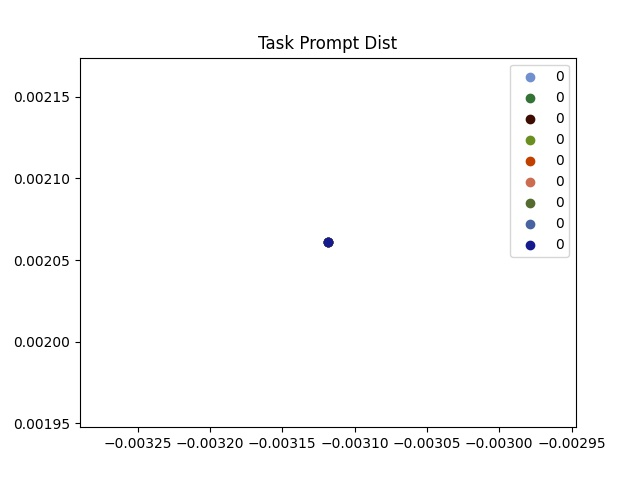
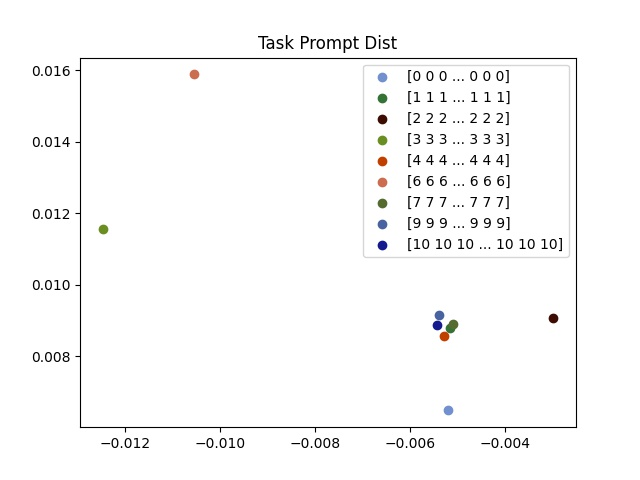
update

diff --git a/draw_cuda_taskprompt.py b/draw_cuda_taskprompt.py
@@ -105,8 +105,8 @@ sst2_ten = list()
 path="/data3/private/suyusheng/prompt/prompt/task_prompt_emb/SST2PromptRoberta/task_prompt"
 sst2_ten = torch.load(path).view(76800)
 print(sst2_ten.shape)
-sst2_ten = torch.stack([sst2_ten for i in range(200)])
-print(sst2_ten.shape)
+#sst2_ten = torch.stack([sst2_ten for i in range(200)])
+#print(sst2_ten.shape)
 
 
 #laptop
@@ -115,8 +115,8 @@ laptop_ten = list()
 path="/data3/private/suyusheng/prompt/prompt/task_prompt_emb/laptopPromptRoberta/task_prompt"
 laptop_ten = torch.load(path).view(76800)
 print(laptop_ten.shape)
-laptop_ten = torch.stack([laptop_ten for i in range(200)])
-print(laptop_ten.shape)
+#laptop_ten = torch.stack([laptop_ten for i in range(200)])
+#print(laptop_ten.shape)
 
 
 #restaurant
@@ -125,8 +125,8 @@ restaurant_ten = list()
 path="/data3/private/suyusheng/prompt/prompt/task_prompt_emb/restaurantPromptRoberta/task_prompt"
 restaurant_ten = torch.load(path).view(76800)
 print(restaurant_ten.shape)
-restaurant_ten = torch.stack([restaurant_ten for i in range(200)])
-print(restaurant_ten.shape)
+#restaurant_ten = torch.stack([restaurant_ten for i in range(200)])
+#print(restaurant_ten.shape)
 
 #############
 #############
@@ -138,8 +138,8 @@ rte_ten = list()
 path="/data3/private/suyusheng/prompt/prompt/task_prompt_emb/RTEPromptRoberta/task_prompt"
 rte_ten = torch.load(path).view(76800)
 print(rte_ten.shape)
-rte_ten = torch.stack([rte_ten for i in range(200)])
-print(rte_ten.shape)
+#rte_ten = torch.stack([rte_ten for i in range(200)])
+#print(rte_ten.shape)
 
 
 #MNLI
@@ -148,8 +148,8 @@ MNLI_ten = list()
 path="/data3/private/suyusheng/prompt/prompt/task_prompt_emb/MNLIPromptRoberta/task_prompt"
 MNLI_ten = torch.load(path).view(76800)
 print(MNLI_ten.shape)
-MNLI_ten = torch.stack([MNLI_ten for i in range(200)])
-print(MNLI_ten.shape)
+#MNLI_ten = torch.stack([MNLI_ten for i in range(200)])
+#print(MNLI_ten.shape)
 
 
 
@@ -159,8 +159,8 @@ WNLI_ten = list()
 path="/data3/private/suyusheng/prompt/prompt/task_prompt_emb/WNLIPromptRoberta/task_prompt"
 WNLI_ten = torch.load(path).view(76800)
 print(WNLI_ten.shape)
-WNLI_ten = torch.stack([WNLI_ten for i in range(200)])
-print(WNLI_ten.shape)
+#WNLI_ten = torch.stack([WNLI_ten for i in range(200)])
+#print(WNLI_ten.shape)
 
 
 ################
@@ -173,8 +173,8 @@ MRPC_ten = list()
 path="/data3/private/suyusheng/prompt/prompt/task_prompt_emb/MRPCPromptRoberta/task_prompt"
 MRPC_ten = torch.load(path).view(76800)
 print(MRPC_ten.shape)
-MRPC_ten = torch.stack([MRPC_ten for i in range(200)])
-print(MRPC_ten.shape)
+#MRPC_ten = torch.stack([MRPC_ten for i in range(200)])
+#print(MRPC_ten.shape)
 
 
 #QQP
@@ -183,8 +183,8 @@ QQP_ten = list()
 path="/data3/private/suyusheng/prompt/prompt/task_prompt_emb/QQPPromptRoberta/task_prompt"
 QQP_ten = torch.load(path).view(76800)
 print(QQP_ten.shape)
-QQP_ten = torch.stack([QQP_ten for i in range(200)])
-print(QQP_ten.shape)
+#QQP_ten = torch.stack([QQP_ten for i in range(200)])
+#print(QQP_ten.shape)
 
 
 ################
@@ -196,8 +196,8 @@ re_ten = list()
 path="/data3/private/suyusheng/prompt/prompt/task_prompt_emb/REPrompt/task_prompt"
 re_ten = torch.load(path).view(76800)
 print(re_ten.shape)
-re_ten = torch.stack([re_ten for i in range(200)])
-print(re_ten.shape)
+#re_ten = torch.stack([re_ten for i in range(200)])
+#print(re_ten.shape)
 
 
 ################
@@ -211,8 +211,8 @@ QNLI_ten = list()
 path="/data3/private/suyusheng/prompt/prompt/task_prompt_emb/QNLIPromptRoberta/task_prompt"
 QNLI_ten = torch.load(path).view(76800)
 print(QNLI_ten.shape)
-QNLI_ten = torch.stack([QNLI_ten for i in range(200)])
-print(QNLI_ten.shape)
+#QNLI_ten = torch.stack([QNLI_ten for i in range(200)])
+#print(QNLI_ten.shape)
 
 
 
@@ -222,8 +222,8 @@ STSB_ten = list()
 path="/data3/private/suyusheng/prompt/prompt/task_prompt_emb/STSBPromptRoberta/task_prompt"
 STSB_ten = torch.load(path).view(76800)
 print(STSB_ten.shape)
-STSB_ten = torch.stack([STSB_ten for i in range(200)])
-print(STSB_ten.shape)
+#STSB_ten = torch.stack([STSB_ten for i in range(200)])
+#print(STSB_ten.shape)
 
 
 
@@ -272,10 +272,12 @@ restaurant_label_ten[restaurant_label_ten==1]=10
 #print(re_label_ten.shape)
 
 #all_prompt_emb = torch.cat([sst2_ten,rte_ten,re_ten,MNLI_ten,MRPC_ten,QNLI_ten,QQP_ten,WNLI_ten,STSB_ten,laptop_ten,restaurant_ten]).to("cpu").numpy()
-all_prompt_emb = torch.cat([sst2_ten,rte_ten,re_ten,MNLI_ten,MRPC_ten,QNLI_ten,QQP_ten,WNLI_ten,STSB_ten,laptop_ten,restaurant_ten])
+#all_prompt_emb = torch.cat([sst2_ten,rte_ten,re_ten,MNLI_ten,MRPC_ten,QNLI_ten,QQP_ten,WNLI_ten,STSB_ten,laptop_ten,restaurant_ten])
+all_prompt_emb = torch.stack([sst2_ten,rte_ten,re_ten,MNLI_ten,MRPC_ten,QNLI_ten,QQP_ten,WNLI_ten,STSB_ten,laptop_ten,restaurant_ten])
 
 #all_label = torch.cat([sst2_label_ten,rte_label_ten,re_label_ten,MNLI_label_ten,MRPC_label_ten,QNLI_label_ten,QQP_label_ten,WNLI_label_ten,STSB_label_ten,laptop_label_ten,restaurant_label_ten]).to("cpu").numpy()
-all_label = torch.cat([sst2_label_ten,rte_label_ten,re_label_ten,MNLI_label_ten,MRPC_label_ten,QNLI_label_ten,QQP_label_ten,WNLI_label_ten,STSB_label_ten,laptop_label_ten,restaurant_label_ten])
+#all_label = torch.cat([sst2_label_ten,rte_label_ten,re_label_ten,MNLI_label_ten,MRPC_label_ten,QNLI_label_ten,QQP_label_ten,WNLI_label_ten,STSB_label_ten,laptop_label_ten,restaurant_label_ten])
+all_label = torch.stack([sst2_label_ten,rte_label_ten,re_label_ten,MNLI_label_ten,MRPC_label_ten,QNLI_label_ten,QQP_label_ten,WNLI_label_ten,STSB_label_ten,laptop_label_ten,restaurant_label_ten])
 
 #print(all_prompt_emb.shape)
 #print(all_label.shape)
@@ -405,7 +407,7 @@ for task_id, task_name in task_map.items():
     #counter+=1
     #label_color_list.append(colors_map[task_id])
 
-    compressed_prompt_emb[task_id]
+    print(compressed_prompt_emb[task_id])
 
     plt.scatter(compressed_prompt_emb[task_id][0], compressed_prompt_emb[task_id][1], color=color_map[task_id], label=all_label[task_id])
 
